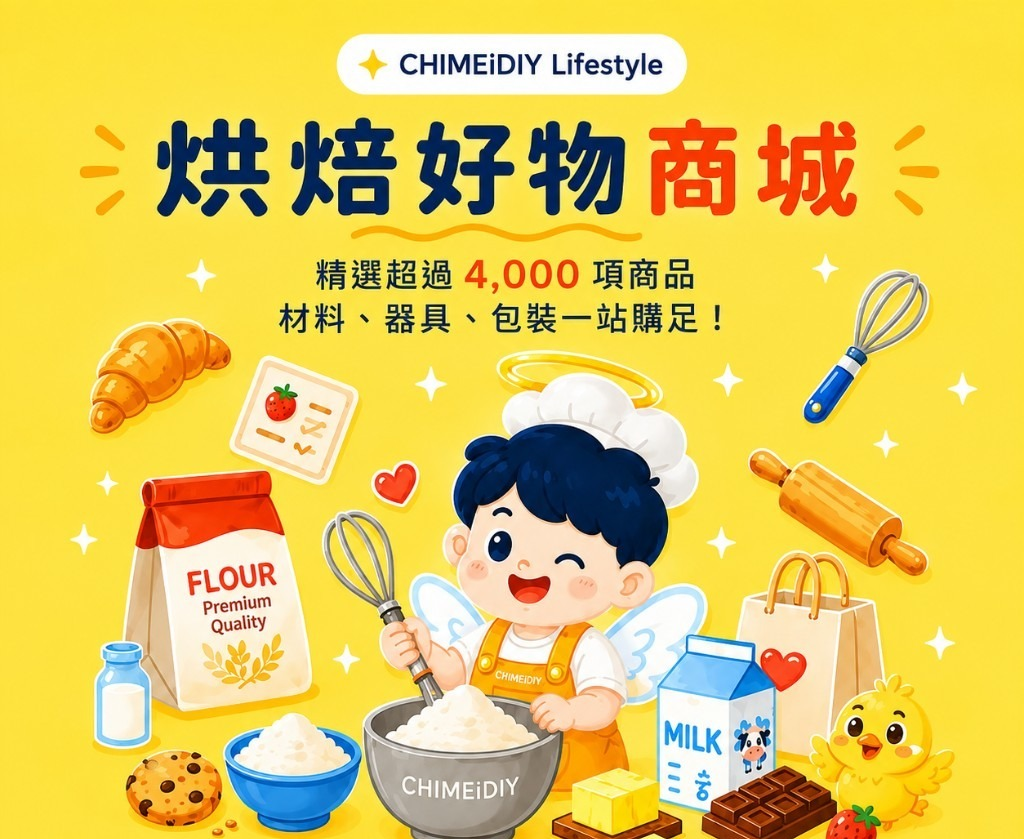
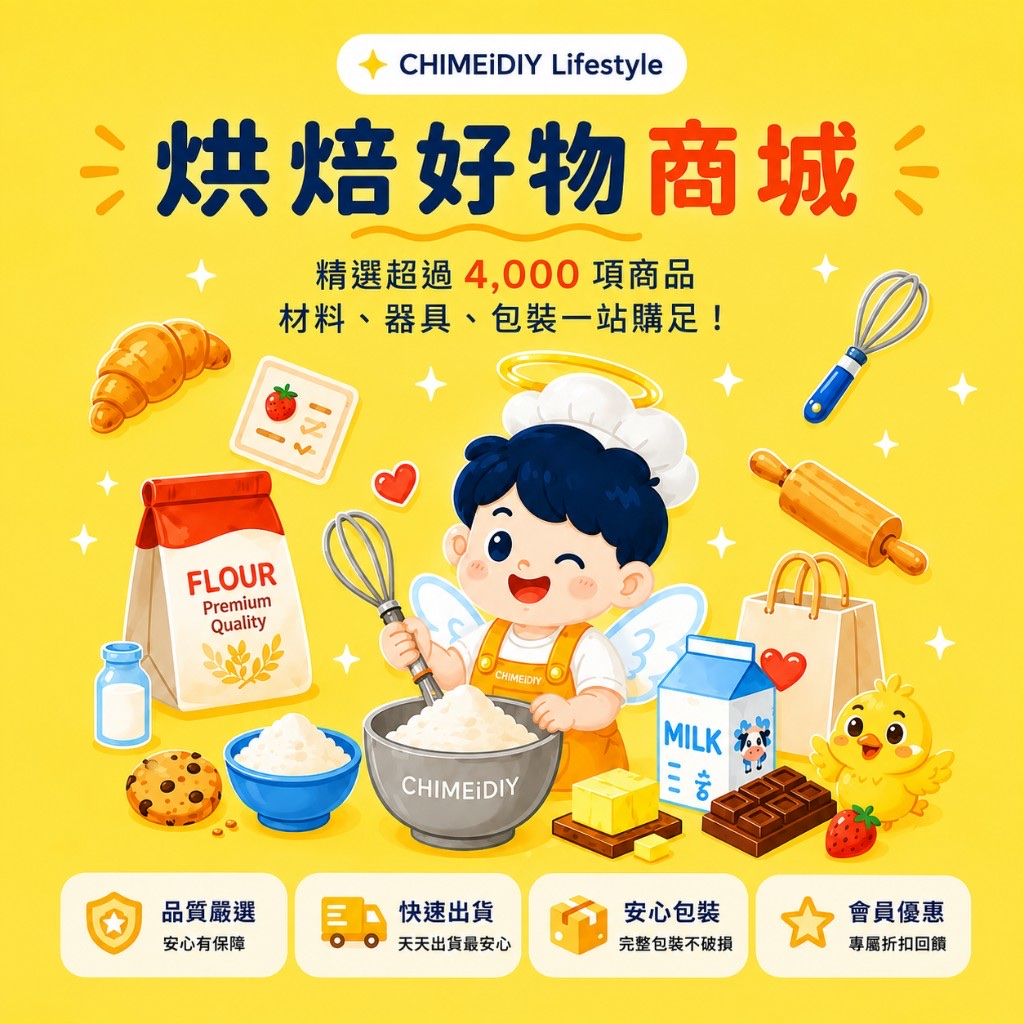
feat(shop): replace hub hero with square baking art
Swap the shop hero assets to the new 1024×1024 banner and bump cache so the full image shows without crop.

diff --git a/src/types/shop-hero-banner.ts b/src/types/shop-hero-banner.ts
@@ -19,11 +19,11 @@ export type ShopHeroBanner = {
 
 export const SHOP_HERO_BANNER_TYPE = "shop_hero" as const;
 
-/** Match homepage hero display: full-bleed art without bottom feature strip. */
+/** Match homepage hero display: full-bleed art, intrinsic size (no crop). */
 export const SHOP_HERO_DESKTOP_WIDTH = 1024;
-export const SHOP_HERO_DESKTOP_HEIGHT = 839;
+export const SHOP_HERO_DESKTOP_HEIGHT = 1024;
 export const SHOP_HERO_MOBILE_WIDTH = 1024;
-export const SHOP_HERO_MOBILE_HEIGHT = 839;
+export const SHOP_HERO_MOBILE_HEIGHT = 1024;
 
 export const DEFAULT_SHOP_HERO_BANNERS: ShopHeroBanner[] = [
   {
@@ -31,8 +31,8 @@ export const DEFAULT_SHOP_HERO_BANNERS: ShopHeroBanner[] = [
     title: "烘焙好物商城",
     alt_text: "烘焙好物商城 · 精選超過 4,000 項商品",
     subtitle: "材料、器具、包裝一次購足！",
-    desktop_image: "/images/shop/hero-desktop.jpg?v=20260802d",
-    mobile_image: "/images/shop/hero-mobile.jpg?v=20260802d",
+    desktop_image: "/images/shop/hero-desktop.jpg?v=20260802e",
+    mobile_image: "/images/shop/hero-mobile.jpg?v=20260802e",
     link: "/shop/categories",
     link_target: "_self",
     button_text: "探索更多好物",
